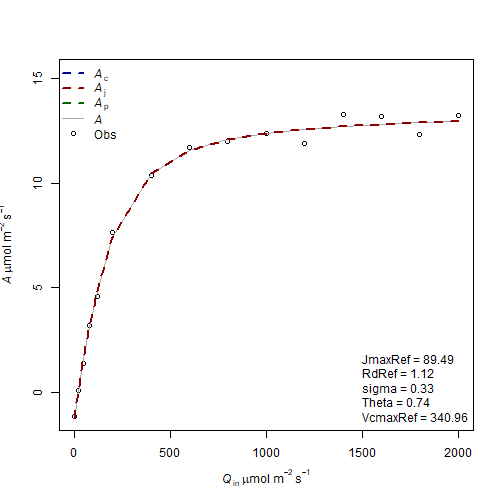
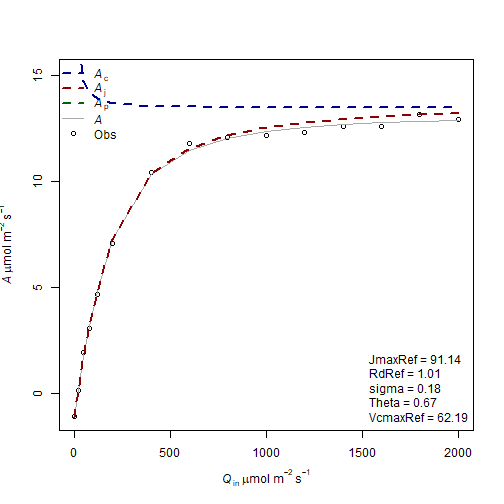
Update doc

diff --git a/vignettes/Aq_fitting.md b/vignettes/Aq_fitting.md
@@ -14,7 +14,7 @@ library(LeafGasExchange)
 library(mvtnorm)
 ```
 
-# Fitting an Aq curve
+# Fitting an AQ curve
 
 The objective of this tutorial is to illustrate how to fit an A-Q curve using the "LeafGasExchange" package. In this tutorial, 
 we first simulate an A-Q curve with known photosynthetic parameters and noise. This curve is then fitted to retrieve the parameters.
@@ -22,7 +22,7 @@ we first simulate an A-Q curve with known photosynthetic parameters and noise. T
 
 ## Simulating an AQ curve
 
-For this example we first simulate a photosynthesis curve, but it would work the same if the data were not simulated but measured. The data simulation is 
+For this example we first simulate a photosynthesis curve, but it would work the same if the data was not simulated but measured. The data simulation is 
 done using the function f.A. This function needs a list of photosynthetic parameters which are produced using the function f.make.param() and a list of 
 input variables (CO2 at the surface of the leaf, leaf temperature, incident light, RH). To have more information on the function f.make.param, you can 
 use the command ?f.make.param in R console.
@@ -41,7 +41,7 @@ simul=f.A(PFD = PAR,cs = CO2,Tleaf = Tleaf,Tair = Tair,RH = RH,param = param)
 
 # Here we include a normal error 
 
-simul$A=simul$A+rnorm(n=length(simul$A),mean = 0,sd = 0.3)
+simul$A=simul$A+rnorm(n=length(simul$A),mean = 0,sd = 0.2)
 measures=data.frame(Tleaf=Tleaf,Ci=simul$ci,Qin=PAR,A=simul$A)
 ```
 
@@ -54,9 +54,9 @@ f.plot(measures = measures,type = 'Aq',list_legend = param[c('VcmaxRef','JmaxRef
 
 ![plot of chunk unnamed-chunk-3](Aq_fitting_files/unnamed-chunk-3-1.png)
 
-In this case, you see that the top Assimilation values are only limited by Aj. It is thought that at high light in usual environmental conditions, Ac and Aj have similar rate. This coordination is thought to be often present in plants. In other cases Ac can be limiting at high light. 
+In this case, you see that the top Assimilation values are only limited by Aj. It is thought that at high light in usual environmental conditions, Ac and Aj have similar rates. This coordination is thought to be often present in plants. In other cases Ac can be limiting at high light.
 
-FOr example:
+For example:
 
 
 ```r
@@ -79,7 +79,7 @@ fitted even if it would not always make sense. We do a first fitting with only t
 given in the list Start, with initial values. The method will look for different initial values around those values so it is not necessary to give very 
 good ones, just not too stupid ones. The photosynthetic parameters have to be given in the list param. This is used to determine what should be the parameters 
 for the temperature dependence, for the leaf absorbance, theta, etc. By default, the equations and parameters used in the TBM FATES to simulate the photosynthesis 
-are used. In this example, we also give a high value for VcmaxRef so it is not limiting the photsoynthesis rate. We'll revisit this asumption later.
+are used. In this example, we also give a high value for VcmaxRef so it is not limiting the photosynthesis rates. We'll revisit this assumption later.
 
 
 
@@ -91,14 +91,14 @@ fitting1=f.fitting(measures = measures,Start = list(JmaxRef = 30, RdRef = 1,Thet
 ```
 ## $par
 ##    JmaxRef      RdRef      Theta 
-## 89.5324440  1.1234471  0.7384382 
+## 89.1935559  1.0297619  0.6996975 
 ## 
 ## $value
-## [1] 1.598659
+## [1] 0.4946647
 ## 
 ## $counts
 ## function gradient 
-##      110       NA 
+##       98       NA 
 ## 
 ## $convergence
 ## [1] 0
@@ -106,7 +106,7 @@ fitting1=f.fitting(measures = measures,Start = list(JmaxRef = 30, RdRef = 1,Thet
 ## $message
 ## NULL
 ## 
-## [1] "sd 0.326461761955215"
+## [1] "sd 0.181597490422558"
 ## Length  Class   Mode 
 ##      1   mle2     S4
 ```
@@ -124,15 +124,15 @@ fitting2=f.fitting(measures = measures,Start = list(JmaxRef = 30,VcmaxRef=40, Rd
 
 ```
 ## $par
-##     JmaxRef    VcmaxRef       RdRef       Theta 
-##  89.4919283 340.9644454   1.1239040   0.7383948 
+##    JmaxRef   VcmaxRef      RdRef      Theta 
+## 91.1386641 62.1888937  1.0132787  0.6729676 
 ## 
 ## $value
-## [1] 1.598608
+## [1] 0.4710319
 ## 
 ## $counts
 ## function gradient 
-##      453       NA 
+##      355       NA 
 ## 
 ## $convergence
 ## [1] 0
@@ -140,29 +140,9 @@ fitting2=f.fitting(measures = measures,Start = list(JmaxRef = 30,VcmaxRef=40, Rd
 ## $message
 ## NULL
 ## 
-## [1] "sd 0.326456575019435"
+## [1] "sd 0.177206450348648"
 ## Length  Class   Mode 
 ##      1   mle2     S4
-```
-
-```
-## Warning in mean.default(measures$Tair, na.rm = TRUE): argument is not numeric or logical:
-## returning NA
-```
-
-```
-## Warning in mean.default(measures$RHs, na.rm = TRUE): argument is not numeric or logical:
-## returning NA
-```
-
-```
-## Warning in mean.default(measures$VPDleaf, na.rm = TRUE): argument is not numeric or logical:
-## returning NA
-```
-
-```
-## Warning in mean.default(measures$Patm, na.rm = TRUE): argument is not numeric or logical:
-## returning NA
 ```
 
 ![plot of chunk unnamed-chunk-6](Aq_fitting_files/unnamed-chunk-6-1.png)
@@ -185,10 +165,10 @@ confint(fitting1[[2]])
 
 ```
 ##              2.5 %     97.5 %
-## sigma    0.2373058  0.4900842
-## JmaxRef 86.5884054 92.6237922
-## RdRef    0.8053796  1.4369706
-## Theta    0.6182055  0.8278076
+## sigma    0.1320035  0.2726141
+## JmaxRef 87.5106139 90.9273817
+## RdRef    0.8519132  1.2063340
+## Theta    0.6314111  0.7575820
 ```
 
 It is possible to compare the AIC of the two models using the base function AIC or BIC. The lower AIC or BIC corresponds to the best model. It shows in this case that adding VcmaxRef is not usefull.
@@ -199,7 +179,7 @@ BIC(fitting1[[2]])
 ```
 
 ```
-## [1] 14.53006
+## [1] -3.065546
 ```
 
 ```r
@@ -207,7 +187,7 @@ BIC(fitting2[[2]])
 ```
 
 ```
-## [1] 15.91585
+## [1] -2.41357
 ```
 
 We can redo this procedure for the second simulated curve:
@@ -221,14 +201,14 @@ fitting3=f.fitting(measures = measures2,Start = list(JmaxRef = 30, RdRef = 1,The
 ```
 ## $par
 ##    JmaxRef      RdRef      Theta 
-## 89.3064226  1.1203331  0.8420642 
+## 89.0757771  1.1283781  0.8113092 
 ## 
 ## $value
-## [1] 0.6901503
+## [1] 1.864643
 ## 
 ## $counts
 ## function gradient 
-##      112       NA 
+##      154       NA 
 ## 
 ## $convergence
 ## [1] 0
@@ -236,29 +216,9 @@ fitting3=f.fitting(measures = measures2,Start = list(JmaxRef = 30, RdRef = 1,The
 ## $message
 ## NULL
 ## 
-## [1] "sd 0.21449946177971"
+## [1] "sd 0.352575551233708"
 ## Length  Class   Mode 
 ##      1   mle2     S4
-```
-
-```
-## Warning in mean.default(measures$Tair, na.rm = TRUE): argument is not numeric or logical:
-## returning NA
-```
-
-```
-## Warning in mean.default(measures$RHs, na.rm = TRUE): argument is not numeric or logical:
-## returning NA
-```
-
-```
-## Warning in mean.default(measures$VPDleaf, na.rm = TRUE): argument is not numeric or logical:
-## returning NA
-```
-
-```
-## Warning in mean.default(measures$Patm, na.rm = TRUE): argument is not numeric or logical:
-## returning NA
 ```
 
 ![plot of chunk unnamed-chunk-9](Aq_fitting_files/unnamed-chunk-9-1.png)
@@ -271,14 +231,14 @@ fitting4=f.fitting(measures = measures2,Start = list(JmaxRef = 30, RdRef = 1,The
 ```
 ## $par
 ##     JmaxRef       RdRef       Theta    VcmaxRef 
-## 102.8214219   1.0005334   0.6903262  60.0832839 
+## 108.5110284   0.9611996   0.5447890  59.2941862 
 ## 
 ## $value
-## [1] 0.2939875
+## [1] 0.9291445
 ## 
 ## $counts
 ## function gradient 
-##      397       NA 
+##      185       NA 
 ## 
 ## $convergence
 ## [1] 0
@@ -286,35 +246,15 @@ fitting4=f.fitting(measures = measures2,Start = list(JmaxRef = 30, RdRef = 1,The
 ## $message
 ## NULL
 ## 
-## [1] "sd 0.139997014399646"
+## [1] "sd 0.248883440751959"
 ## Length  Class   Mode 
 ##      1   mle2     S4
-```
-
-```
-## Warning in mean.default(measures$Tair, na.rm = TRUE): argument is not numeric or logical:
-## returning NA
-```
-
-```
-## Warning in mean.default(measures$RHs, na.rm = TRUE): argument is not numeric or logical:
-## returning NA
-```
-
-```
-## Warning in mean.default(measures$VPDleaf, na.rm = TRUE): argument is not numeric or logical:
-## returning NA
-```
-
-```
-## Warning in mean.default(measures$Patm, na.rm = TRUE): argument is not numeric or logical:
-## returning NA
 ```
 
 ![plot of chunk unnamed-chunk-9](Aq_fitting_files/unnamed-chunk-9-2.png)
 
 
-As previously we can compare the fitting with or without VcmaxRef:
+As previously we can compare the fitting with or without VcmaxRef as a parameter to estimate:
 
 
 ```r
@@ -322,7 +262,7 @@ BIC(fitting3[[2]])
 ```
 
 ```
-## [1] 1.92989
+## [1] 16.83862
 ```
 
 ```r
@@ -330,14 +270,14 @@ BIC(fitting4[[2]])
 ```
 
 ```
-## [1] -9.484422
+## [1] 7.776505
 ```
 
 In this case, the model with VcmaxRef is better.
 
 Generally it is interesting to test the fitting with or without VcmaxRef, and sometimes with or without Theta. Note that Theta can be difficult to estimate and can also reach negative values (June, 2005).
 
-Note also that the parameters from the light curves (VcmaxRef and JmaxRef notably) are rarely used in modeling and that the A-Ci curves are generally prefered. 
+Note also that the parameters from the light curves (VcmaxRef and JmaxRef notably) are rarely used in modeling and that the estimation of those parameters is generally using A-Ci curves. 
 
 
 
